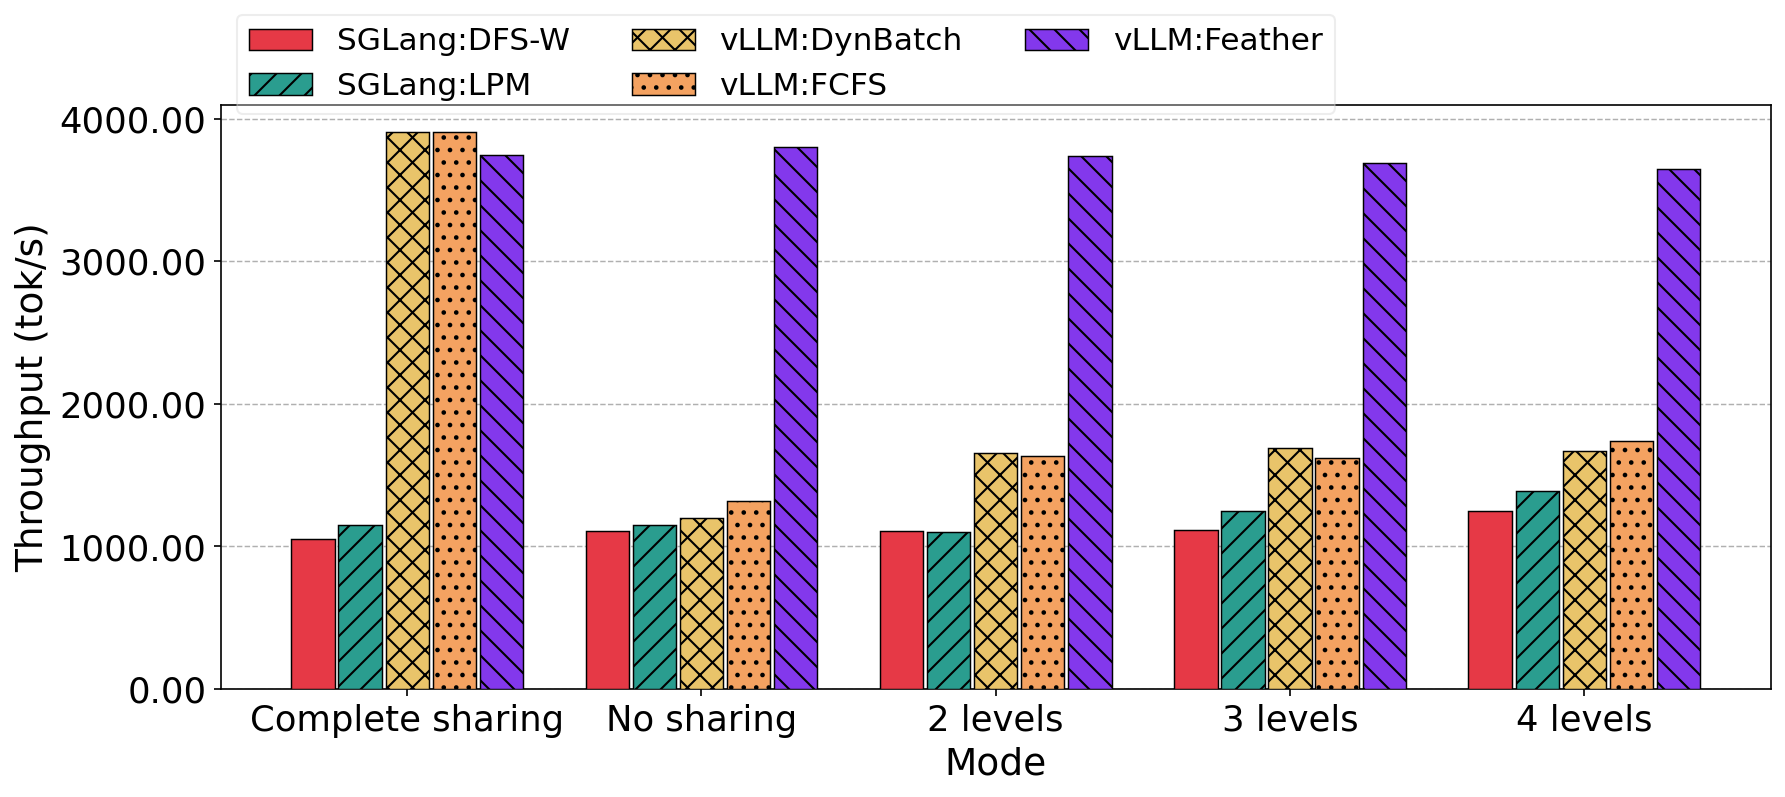
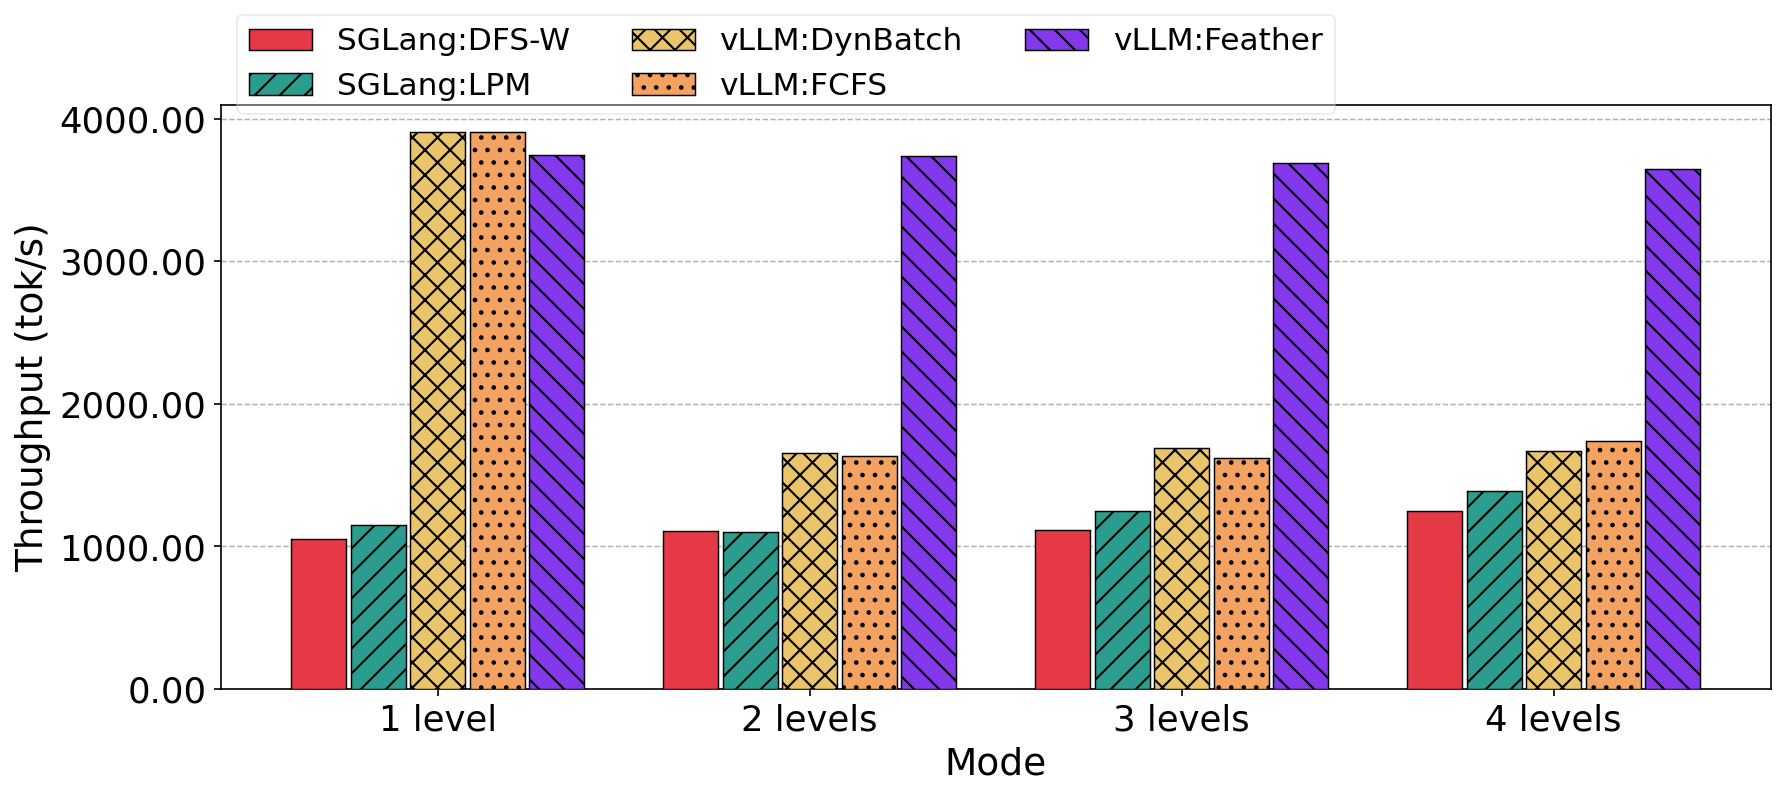
radix tree plot

Changed region(s): [[0.1541, 0.1506, 0.9552, 0.9335]]

diff --git a/code/vllm/radix_tree_logs/plot.py b/code/vllm/radix_tree_logs/plot.py
@@ -78,6 +78,8 @@ for path in log_files:
         continue
 
     engine, policy, sys_val, mode = parsed
+    if mode == 5:
+        continue
     if engine == "vllm":
         engine = "vLLM"
     if engine == "sglang":
@@ -195,9 +197,7 @@ for sv in sorted(per_sys.keys()):
         ax.set_xticks(group_pos)
         def mode_labels_func(m):
             if m == 1:
-                return "Complete sharing"
-            if m == 5:
-                return "No sharing" 
+                return "1 level"
             if m == 9:
                 return "2 levels"
             if m == 10:
